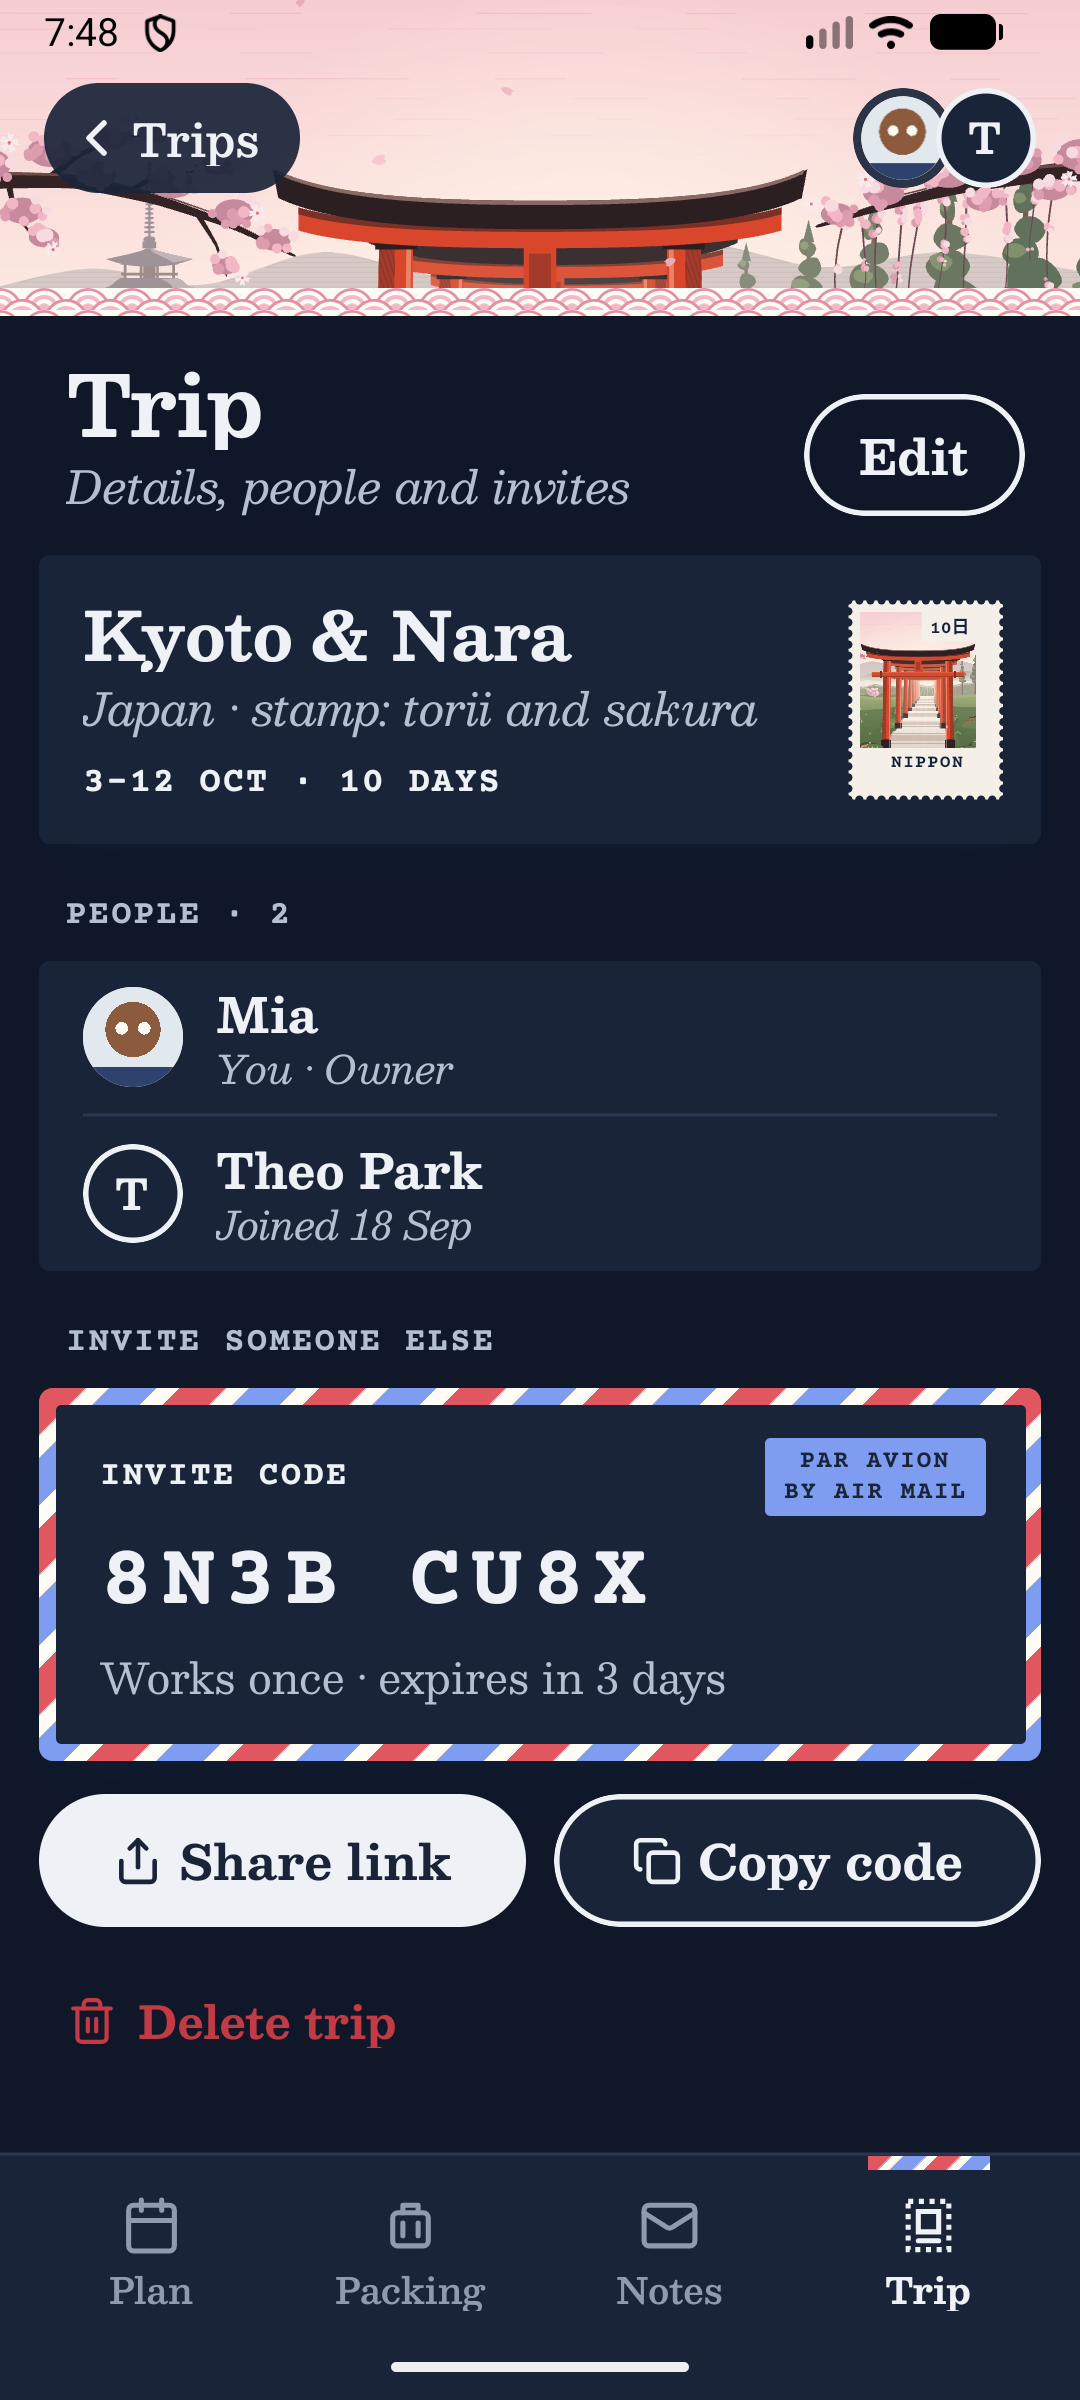
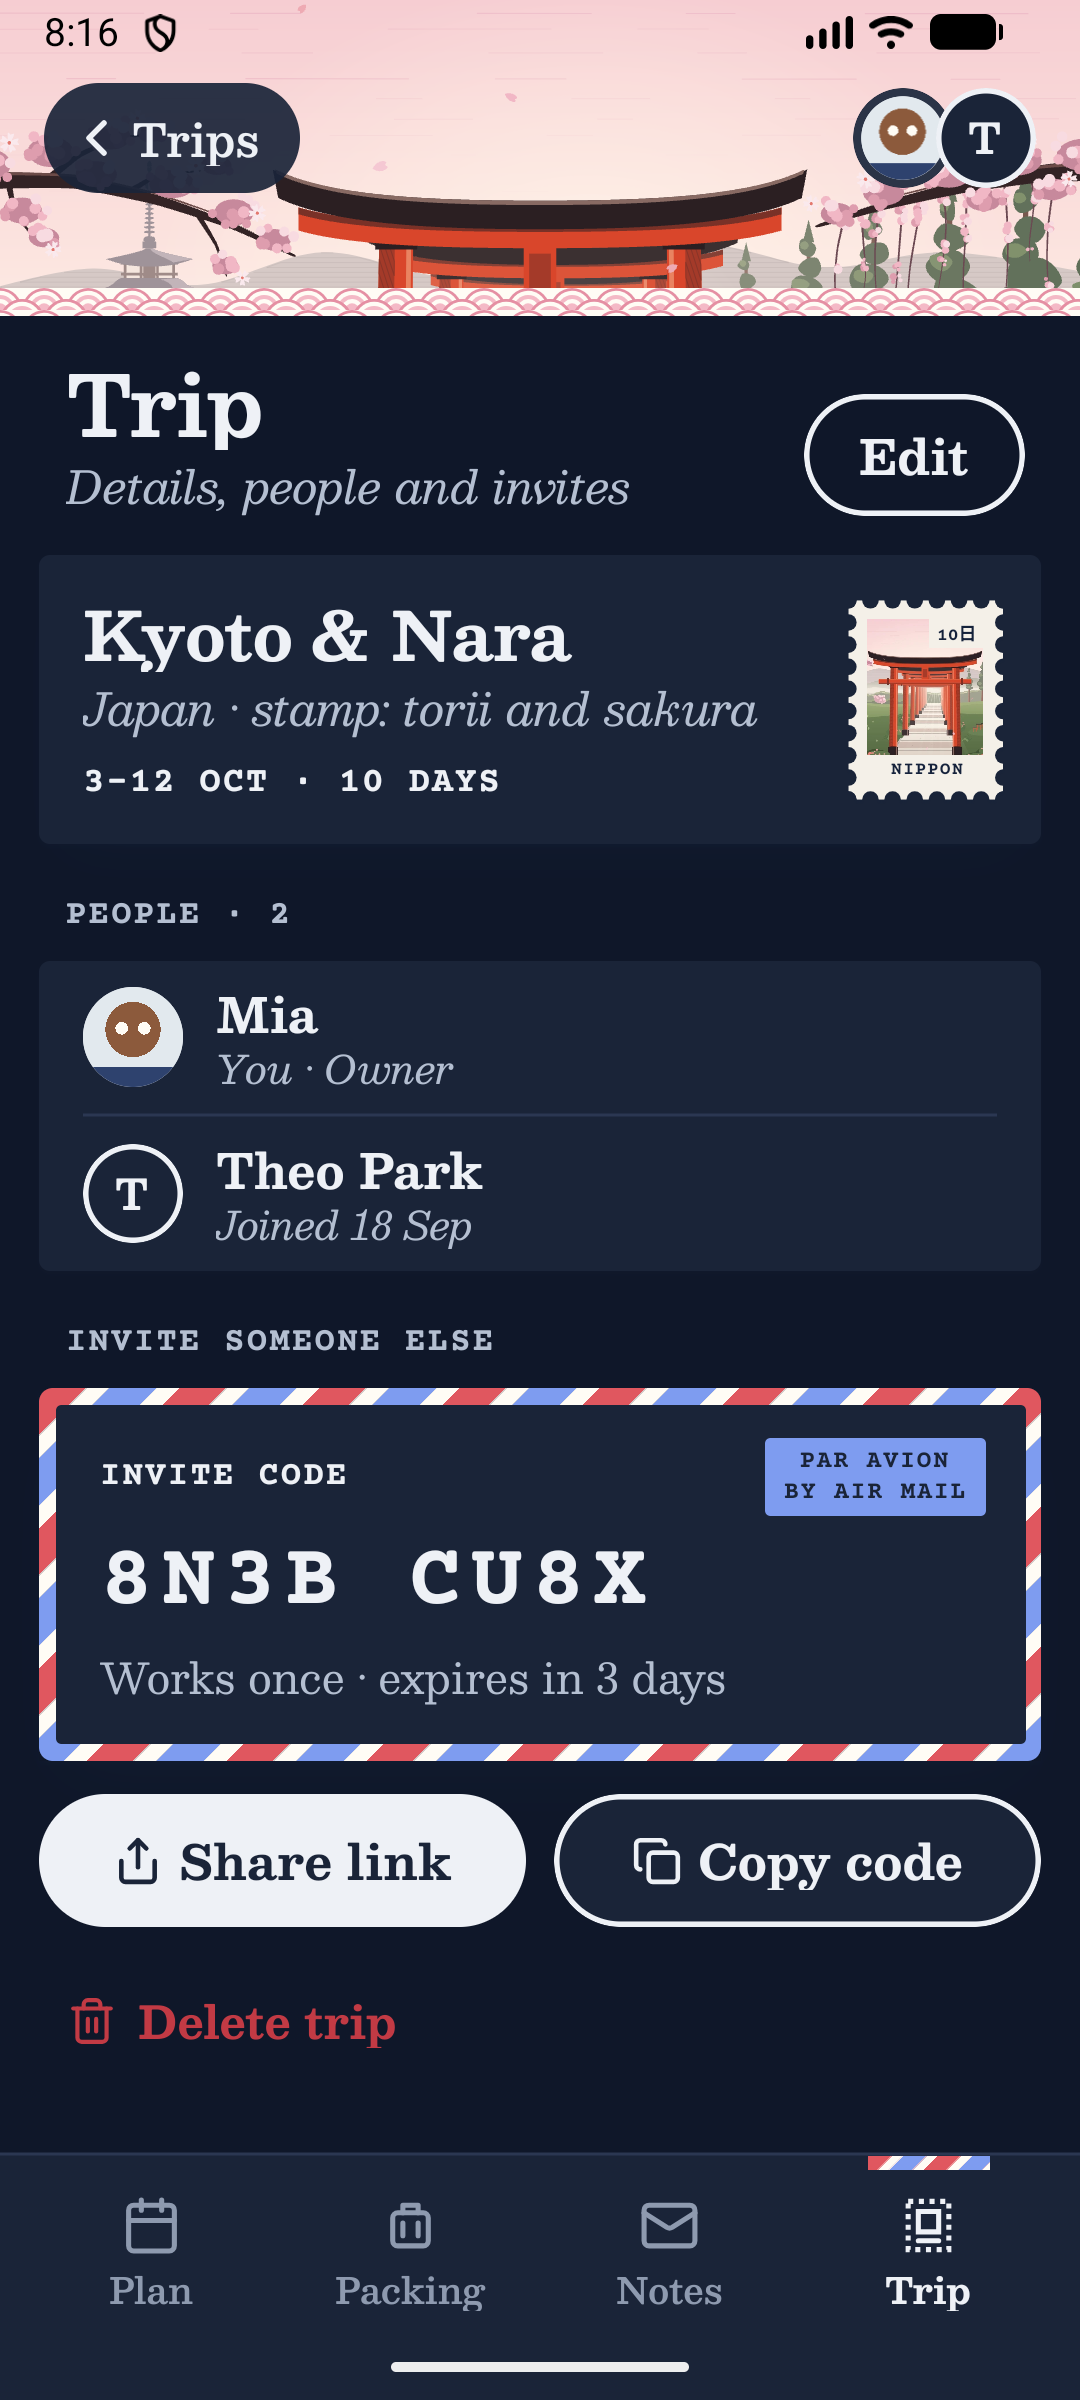
Re-capture stamps with large perforations
Re-capture the Trips list, Trip card (light and dark) and Onboarding
frames from the build that gives the 56x72 and 64x80 stamps the large
perforation profile, and record the notch pitch and the Onboarding
panel size.

Changed region(s): [[0.7639, 0.25, 0.9472, 0.3438], [0.0306, 0.0, 0.0917, 0.0312], [0.7639, 0.0, 0.7944, 0.0312]]

diff --git a/docs/audit-screens/MANIFEST.md b/docs/audit-screens/MANIFEST.md
@@ -2,13 +2,14 @@
 
 **Code commits:** `3099ae1` (the design-review fixes V1–V12, N46 and N47, plus three
 design matches found while measuring the design files: field text inset, field label
-colour and the New trip preview's date range) and `935d4c8` (blurred stamp shadows and
-the tall New trip sheet).
-**Capture windows (local, UTC−6):** 2026-10-11 16:37:31 → 17:02:55 (`3099ae1`) and
-19:48:19 → 19:51:30 (`935d4c8`).
-**92 PNGs:** 83 Android release frames and 9 headful Chrome frames. 76 come from
-`3099ae1`; the 16 that show stamps or the New trip sheet were re-captured from
-`935d4c8` (listed below). Each row of the inventory records its commit and build.
+colour and the New trip preview's date range), `935d4c8` (blurred stamp shadows and
+the tall New trip sheet) and `5fdc1f0` (large perforations on the 56×72 and 64×80
+stamps).
+**Capture windows (local, UTC−6):** 2026-10-11 16:37:31 → 17:02:55 (`3099ae1`),
+19:48:19 → 19:51:30 (`935d4c8`) and 20:16:47 → 20:17:28 (`5fdc1f0`).
+**92 PNGs:** 83 Android release frames and 9 headful Chrome frames: 76 from `3099ae1`,
+12 from `935d4c8` and 4 from `5fdc1f0` (the later two sets are listed below). Each row
+of the inventory records its commit and build.
 Every frame was visually reviewed. There are no runtime error screens, LogBox or
 toasts; `join-invalid-390-light` is the requested invalid-code validation state.
 
@@ -23,6 +24,17 @@ Re-captured: `trips-390-{light,dark}`, `trip-390-{light,dark}`,
 |-----|-------------------------|
 | Stamp shadow | Every `PerforatedStamp` casts the README's shadow along its scalloped edge: `stampInk` at 0.3, offset 1 dp (0.8 under 40 pt), Gaussian blur σ 1 (0.75 on 40–64 pt stamps). The shadow is drawn from the stamp's outline path with the blur on the path, in an Svg that reaches 3 dp past the stamp; react-native-svg filters only shapes and, on Android, masks after the blur, so the masked frame could not carry it. Under the bottom edge of `trip-390-light`'s stamp, between two holes: **#FFFFFF → #E2E2E4 → #C4C5C6 → #D1D1D0 → #E3E1DE → #F3F1EB → #FDFAF3 → #FFFCF5** (one physical pixel each, 2.77 px per dp); before, #FFFFFF went straight to the card. In dark mode the shadow is dark (`stampInk` in both themes). Android and web use the blur; iOS runs the same code path but was not run here. Scrolling Trips and Profile shows the same janky-frame counts with and without the blur. Plan's day strip keeps 3 dp under its stamps inside its scroll view. |
 | New trip sheet | New trip uses Sheet's `tall` size: the card's top sits 9 dp under the status bar and the card runs to the bottom of the screen, with the empty space under the dates. Sheet top **32.9 dp** (24 dp status bar + 9) in `newtrip-design`, `newtrip-empty` and `newtrip-typed` (keyboard up, Destination visible); **33.0 dp** at 360 and 430 with and without the keyboard; **32.9 dp** in dark. Web 680: card from **9 px** to the bottom; web 1280 keeps the centred 480 px card. Edit trip and the item editor still fit their content (their sheets are pixel-identical to the `3099ae1` frames; only the stamp and live scene behind the scrim and the input glyphs differ). |
+
+## Stamp perforations (`5fdc1f0`)
+
+Re-captured: `trips-390-light`, `trip-390-light`, `trip-390-dark`,
[1 lines of base64/hex data omitted]
+
+The 56×72 stamps (Trips list, Trip card) and the 64×80 Onboarding name stamp now use
+the large perforation profile, holes r 3 every 8 with padding 5, like the other stamps
+of 40 pt and up. The Trip card stamp's notches measure **8.0 dp** apart (were 4); the
+Onboarding panel measures **49.8 × 54.9 dp** (design 50 × 55) over a 13 pt name strip.
+The 1.5 px shadow is unchanged.
 
 ## Proof per fix
 
